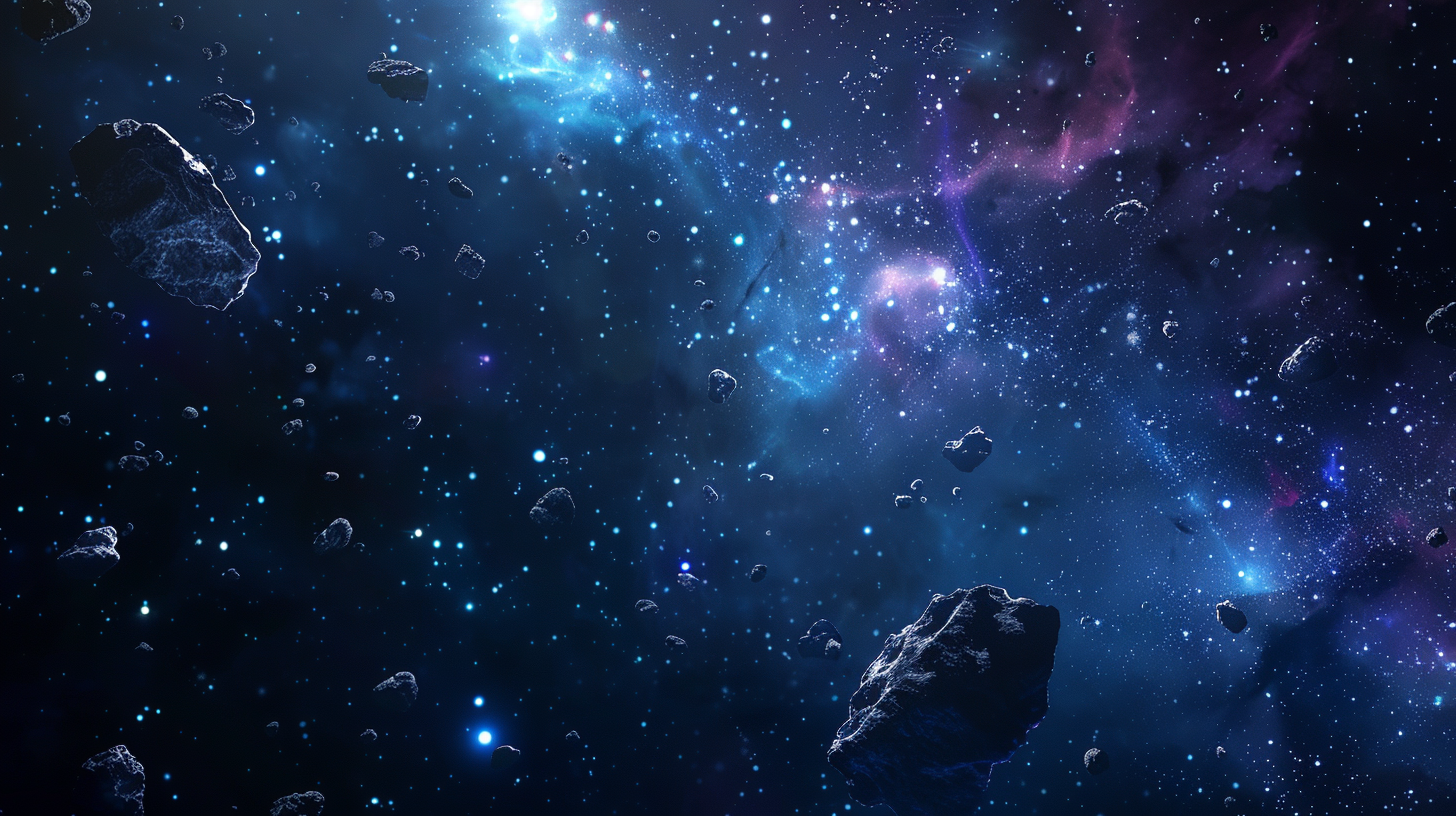
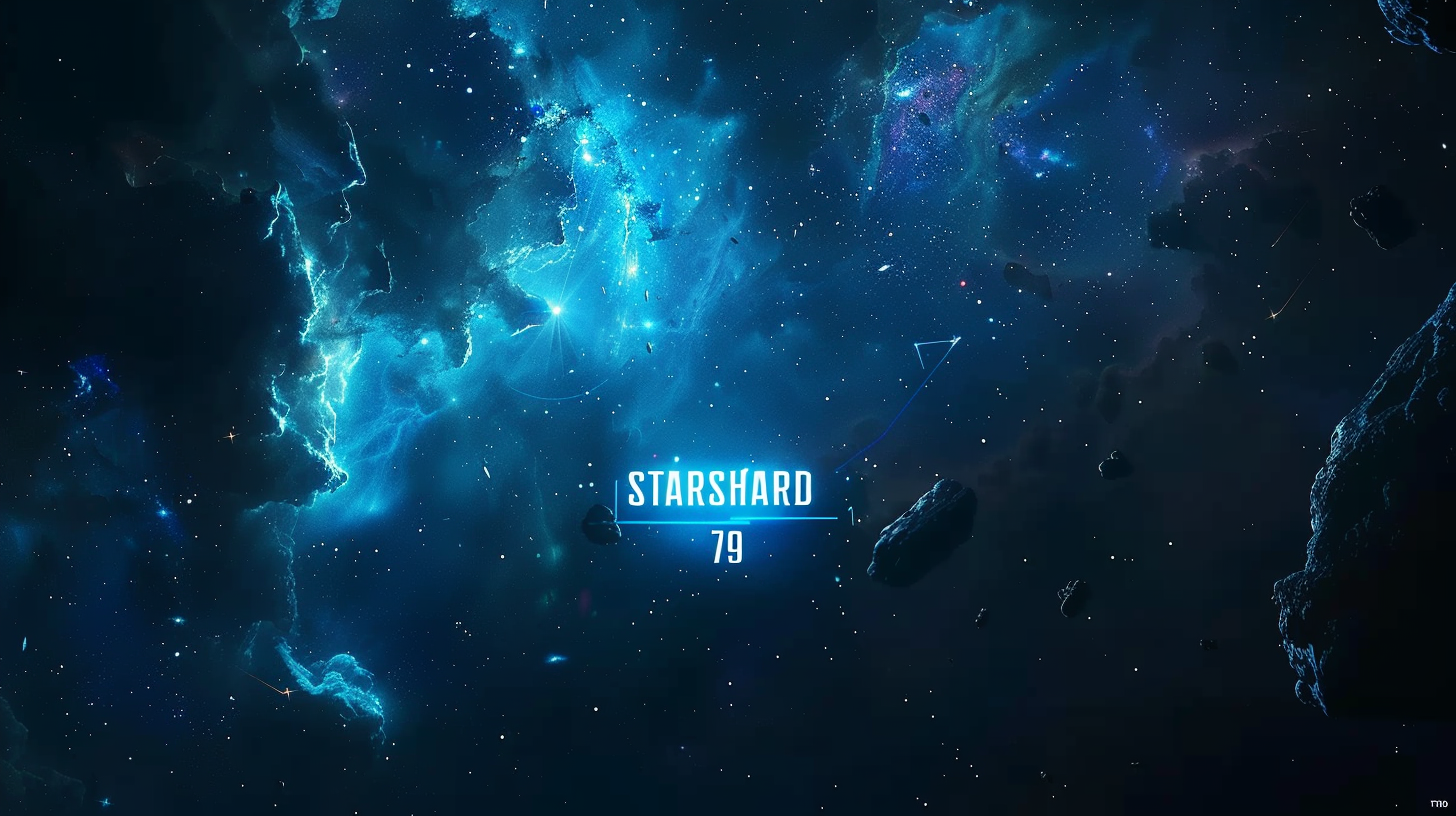
fix: use single menu background with baked title, move text to bottom
- Remove separate title.png, use menu_bg.png with integrated title
- Move instruction text to bottom of screen to avoid overlapping title

diff --git a/core/src/main/kotlin/com/palacesoft/starshard/screen/MenuScreen.kt b/core/src/main/kotlin/com/palacesoft/starshard/screen/MenuScreen.kt
@@ -17,9 +17,6 @@ class MenuScreen(private val game: AsteroidsGame) : Screen {
     private val bgTexture = Texture(Gdx.files.internal("menu_bg.png")).apply {
         setFilter(Texture.TextureFilter.Linear, Texture.TextureFilter.Linear)
     }
-    private val titleTexture = Texture(Gdx.files.internal("title.png")).apply {
-        setFilter(Texture.TextureFilter.Linear, Texture.TextureFilter.Linear)
-    }
     private val font    = BitmapFont().apply { data.setScale(3f); color = Color.CYAN }
     private val subFont = BitmapFont().apply { data.setScale(1.5f); color = Color.WHITE }
     private val settingsFont = BitmapFont().apply { data.setScale(1.5f); color = Color.GRAY }
@@ -47,26 +44,16 @@ class MenuScreen(private val game: AsteroidsGame) : Screen {
 
         game.batch.projectionMatrix = game.camera.combined
         game.batch.begin()
-
-        // Title image with subtle pulse
-        val titleW = 600f
-        val titleH = 150f
-        val pulse = 1f + 0.02f * kotlin.math.sin(time * 2f).toFloat()
-        val tw = titleW * pulse
-        val th = titleH * pulse
-        val tx = (Settings.WORLD_WIDTH - tw) / 2f
-        val ty = Settings.WORLD_HEIGHT / 2f + 20f
-        game.batch.draw(titleTexture, tx, ty, tw, th)
         val isTouch = Gdx.input.isPeripheralAvailable(com.badlogic.gdx.Input.Peripheral.MultitouchScreen)
-        drawCentered(subFont, "TAP TO START", Settings.WORLD_HEIGHT / 2f - 20f)
+        drawCentered(subFont, "TAP TO START", 180f)
         if (isTouch) {
-            drawCentered(subFont, "LEFT SIDE: DRAG = ROTATE    DRAG UP = THRUST", Settings.WORLD_HEIGHT / 2f - 80f)
-            drawCentered(subFont, "RIGHT SIDE: TAP = FIRE    SWIPE DOWN = HYPERSPACE", Settings.WORLD_HEIGHT / 2f - 130f)
+            drawCentered(subFont, "LEFT SIDE: DRAG = ROTATE    DRAG UP = THRUST", 130f)
+            drawCentered(subFont, "RIGHT SIDE: TAP = FIRE    SWIPE DOWN = HYPERSPACE", 80f)
         } else {
-            drawCentered(subFont, "LEFT / RIGHT  -  ROTATE     UP  -  THRUST", Settings.WORLD_HEIGHT / 2f - 80f)
-            drawCentered(subFont, "SPACE  -  FIRE     Z / SHIFT  -  HYPERSPACE", Settings.WORLD_HEIGHT / 2f - 130f)
+            drawCentered(subFont, "LEFT / RIGHT  -  ROTATE     UP  -  THRUST", 130f)
+            drawCentered(subFont, "SPACE  -  FIRE     Z / SHIFT  -  HYPERSPACE", 80f)
         }
-        drawCentered(settingsFont, "S  -  SETTINGS", Settings.WORLD_HEIGHT / 2f - 200f)
+        drawCentered(settingsFont, "S  -  SETTINGS", 35f)
         game.batch.end()
 
         if (Gdx.input.isKeyJustPressed(Input.Keys.S)) {
@@ -88,5 +75,5 @@ class MenuScreen(private val game: AsteroidsGame) : Screen {
     override fun hide()   {}
     override fun pause()  {}
     override fun resume() {}
-    override fun dispose() { bgTexture.dispose(); titleTexture.dispose(); font.dispose(); subFont.dispose(); settingsFont.dispose() }
+    override fun dispose() { bgTexture.dispose(); font.dispose(); subFont.dispose(); settingsFont.dispose() }
 }
